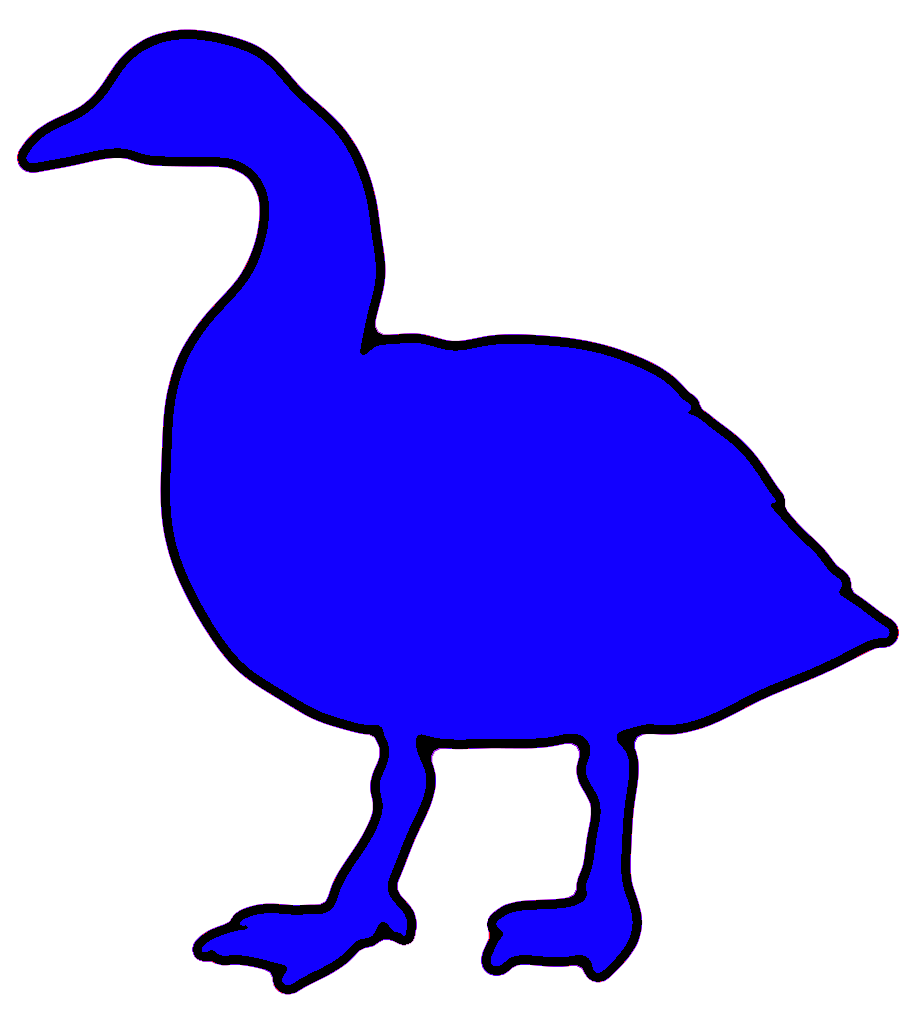
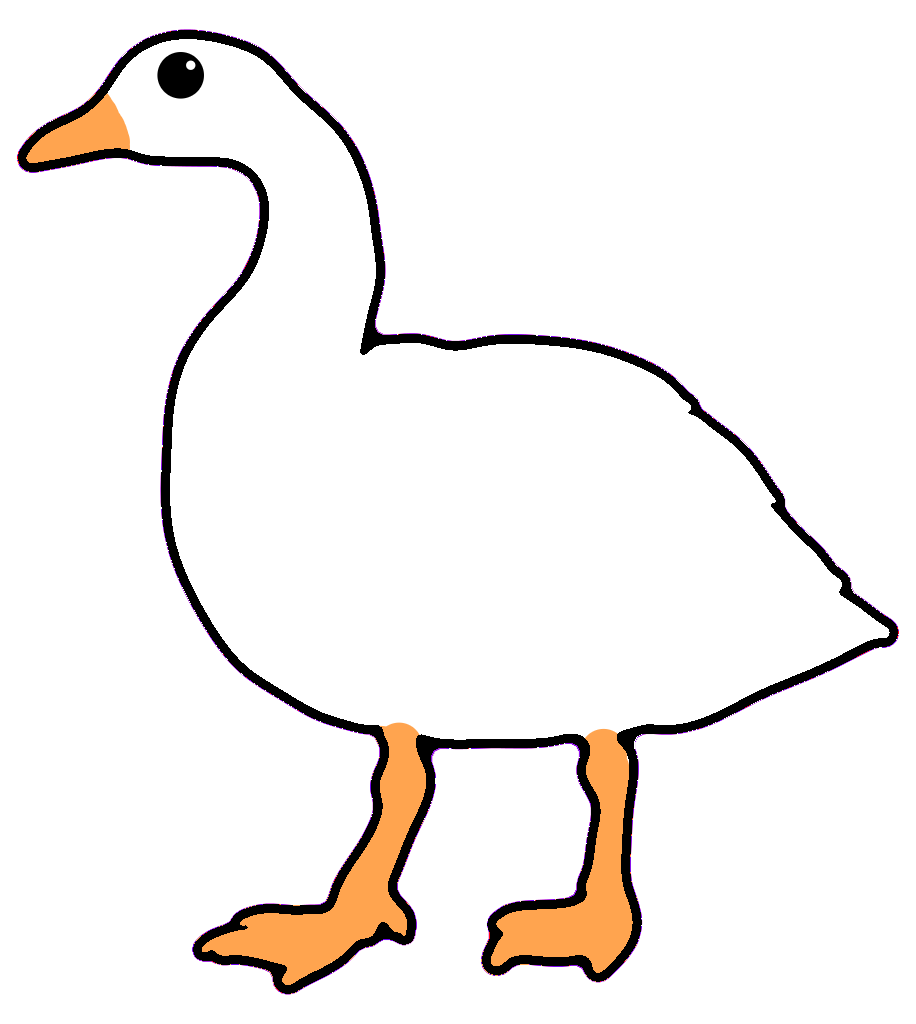
Added colors to the players, changed the used colors and made the geese extra cute

diff --git a/scripts/script.js b/scripts/script.js
@@ -3,11 +3,12 @@ let players = []
 let currentPlayerIndex = 0;
 
 // Player object constructor
-function Player(id, position, name, score) {
+function Player(id, position, name, score, color) {
   this.id = id;
   this.position = position;
   this.name = name;
   this.score = score;
+  this.color = color;
 }
 
 // Function to save and sync player data
@@ -49,9 +50,10 @@ function parsePlayerData(data) {
         existingPlayer.position = data.position;
         existingPlayer.name = data.name;
         existingPlayer.score = data.score;
+        existingPlayer.color = data.color;
       } else {
         // Create a new Player object based on the received data
-        var player = new Player(data.id, data.position, data.name, data.score);
+        var player = new Player(data.id, data.position, data.name, data.score, data.color);
   
         // Push the player object to the players array
         players.push(player);
@@ -76,7 +78,13 @@ function renderPlayerPositions() {
     let boxElement = document.getElementById(boxId);
 
     let playerElement = document.createElement('img');
-    playerElement.src = "img/goose1.png";
+    if (player.color == "Wit"){
+        playerElement.src = "img/goose1.png";
+    }
+    else if (player.color == "Zwart"){
+        playerElement.src = "img/goose2.png";
+    }
+
     playerElement.alt = player.id;
     playerElement.className = "player";
 
@@ -100,7 +108,12 @@ function incrementId() {
     }
     else {
         let player = new Player(playerId, 0, 'Player Name', 0);
-
+            if (player.id == 1) {
+                player.color = "Wit";
+            }
+            else if (player.id == 2) {
+                player.color = "Zwart";
+            }
         // Increment the player ID
         playerId++;
 
@@ -111,7 +124,7 @@ function incrementId() {
         console.log('New player:', player);
 
         let nexPlayeroutput = document.getElementById("beurt")
-        nexPlayeroutput.innerHTML = "Het is de beurt van speler 1!";
+        nexPlayeroutput.innerHTML = "Wit is aan de beurt!";
 
     }
   }
@@ -139,10 +152,10 @@ function printDice() {
 function printTurn(){
     // Print that it is the next player's turn
     let currentPlayer = players[currentPlayerIndex];
-    let nextPlayer = currentPlayer.id;
+    let nextPlayer = currentPlayer.color;
     console.log('Current player:', nextPlayer);
     let nextPlayeroutput = document.getElementById("beurt")
-    nextPlayeroutput.innerHTML = "Het is de beurt van speler "+nextPlayer+"!";
+    nextPlayeroutput.innerHTML = nextPlayer+" is aan de beurt!";
 }
 
 function rollDice() {

diff --git a/css/styles.css b/css/styles.css
@@ -4,6 +4,13 @@
     max-width: 95%;
     margin-left: auto;
     margin-right: auto;
+    background-color: #ffc43d;
+    padding-bottom: 10px;
+    padding-top: 10px;
+}
+
+.legenda{
+    background-color: white;
 }
 
 .box {
@@ -12,12 +19,15 @@
     display: inline-block;
     margin: -2px;
     border: 1px solid black;
+    background-color: white;
 }
 
 .upperrow {
     display: grid;
     grid-template-columns: 1fr 1fr 1fr;
     padding-bottom: 3%;
+    background-color: white;
+    border: 1px solid black;
 }
 
 .number {
@@ -25,7 +35,7 @@
 }
 
 .board {
-    background-color: palevioletred;
+    background-color: #fff3b0;
 
 }
 
@@ -36,7 +46,8 @@
 }
 
 .start {
-    background-color: rgb(102, 170, 206);
+    background-color: #323031;
+    color: white;
 }
 
 .start.left{
@@ -52,6 +63,7 @@
 h1{
     border: 1px solid black;
     text-align: center;
+    background-color: white;
 }
 
 #outputDice {
@@ -70,27 +82,27 @@ button{
 }
 
 .gans {
-    background-color: mediumpurple;
+    background-color: #fe7f2d;
 }
 
 .brug{
-    background-color: saddlebrown;
+    background-color: #177e89;
 }
 
 .dedood{
-    background-color: #2f2f2f;
+    background-color: #540b0e;
 }
 
 .herberg {
-    background-color: lightslategrey;
+    background-color: #e09f3e;
 }
 
 .doornstruik {
-    background-color: darkgreen;
+    background-color: #849324;
 }
 
 .opnieuwgooien {
-    background-color: chocolate;
+    background-color: #9e2a2b;
 }
 
 .legenda {

diff --git a/index.php b/index.php
@@ -12,8 +12,8 @@ include __DIR__ . '/tpl/body-start.php';
 </head>
 
 <body>
-    <h1>GANZENBORD</h1>
     <div class="container">
+        <h1>GANZENBORD</h1>
         <div class="upperrow">
             <div class="addplayer">
                 <button id="incrementButton">ADD PLAYER</button>
